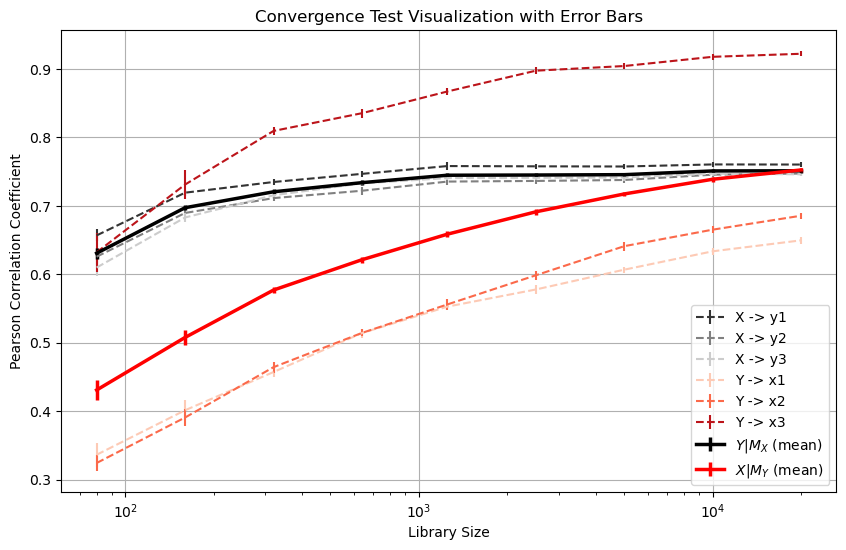
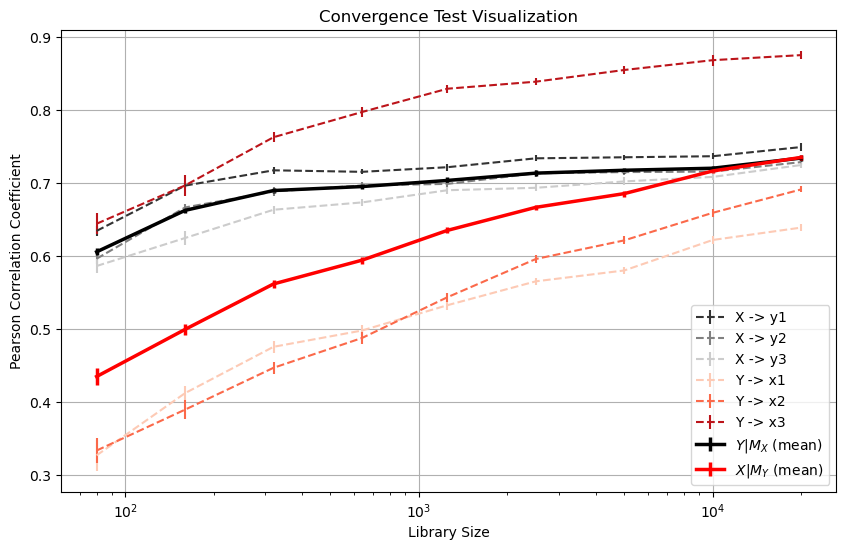
correction

diff --git a/src/FastCCM/CCM_utils.py b/src/FastCCM/CCM_utils.py
@@ -208,7 +208,7 @@ class Visualizer:
         plt.xscale(xscale)  # Set the X-axis scale to "log" or "linear"
         plt.xlabel("Library Size")
         plt.ylabel("Pearson Correlation Coefficient")
-        plt.title("Convergence Test Visualization with Error Bars" if not plot_means_only else "Convergence Test: Mean Only")
+        plt.title("Convergence Test Visualization" if not plot_means_only else "Convergence Test: Mean Only")
         plt.grid(True)
         plt.legend()
         plt.show()
